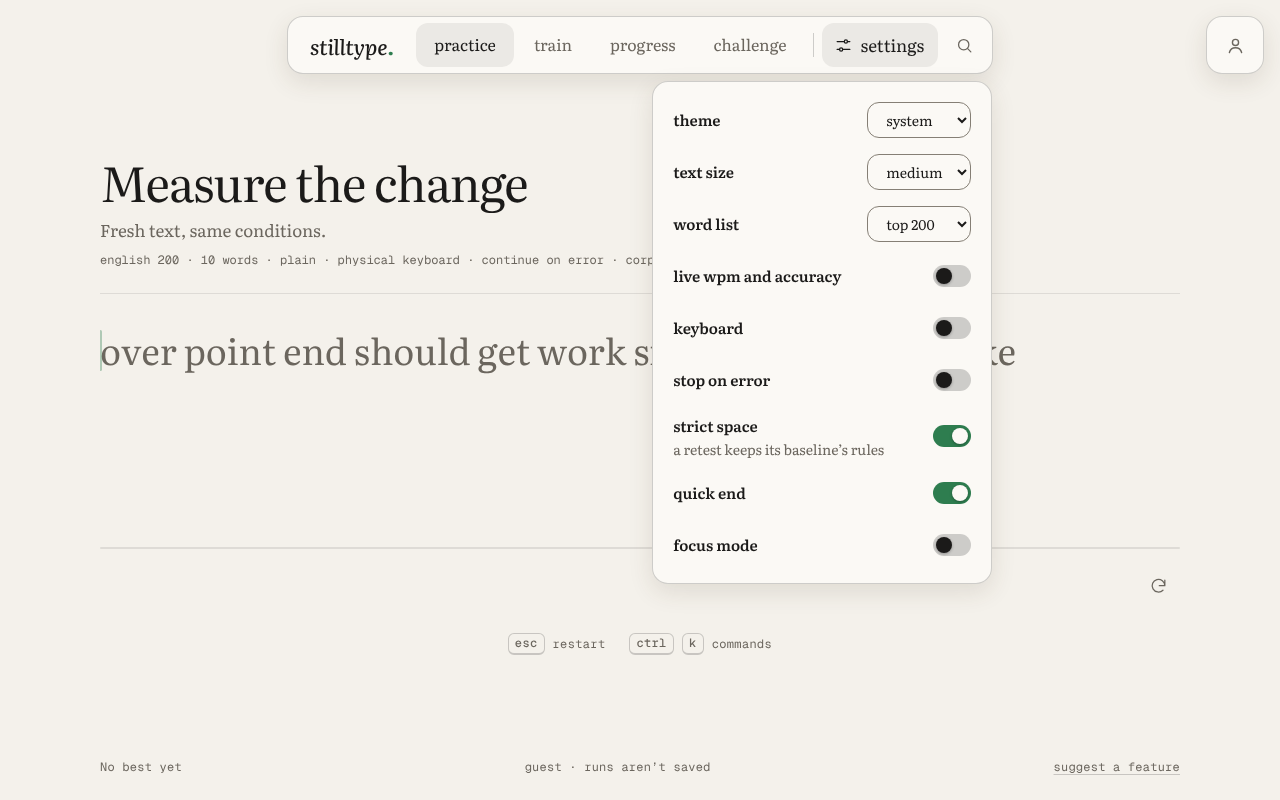
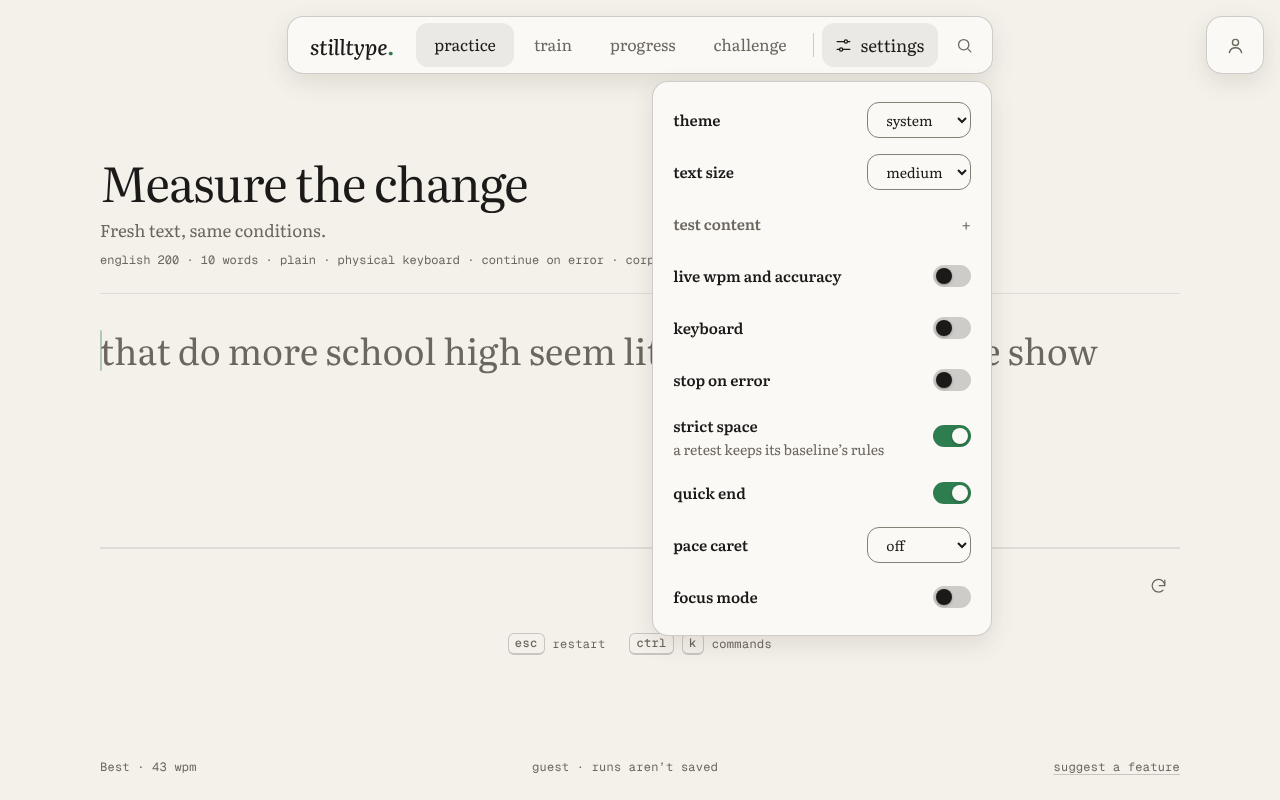
Keep rule choices through a retest and show its own best
Starting a retest or drill no longer copies the baseline's strict space and quick end into the
preferences; the retest takes them in sessionConditions. The footer best for the daily and a
retest now comes from that session's conditions rather than the switches.

Claude-Session: https://claude.ai/code/session_01SaBNo9RHRaTR8cCUjK1iLD

diff --git a/e2e/strict-space.spec.js b/e2e/strict-space.spec.js
@@ -376,13 +376,16 @@ test('a rule changed during a retest keeps the retest on its baseline’s rules'
   await page.emulateMedia({ colorScheme: 'light' });
   await openApp(page);
   await chooseWords(page, 10);
-  await completePassage(page);
+  // Typed at a person's pace, since the baseline's best stays in the footer for the screenshot.
+  await typeInto(page, await passageText(page), '#typing-input', PACE);
+  await expect(page.locator('body')).toHaveAttribute('data-view', 'results');
   await page.locator('#skip-to-retest').click();
   await expect(page.locator('#typing-screen')).toHaveAttribute('data-session', 'retest');
   await openSettings(page);
   await expect(page.locator('#rules-note')).toHaveText(RETEST_NOTE);
   await page.locator('#strict-space-toggle').check();
   await expect(page.locator('#strict-space-toggle')).toHaveAccessibleDescription(RETEST_NOTE);
+  await expect(page.locator('#best')).toHaveText(/^Best · \d+ wpm$/);
   await settle(page);
   await page.screenshot({ path: shot(testInfo, 'retest-note-light.png') });
   await page.locator('details.preferences > summary').click();
@@ -398,6 +401,48 @@ test('a rule changed during a retest keeps the retest on its baseline’s rules'
   // The preference waits for the next practice run.
   await page.locator('#run-again').click();
   await expect(page.locator('#condition-line')).toContainText('continue on error · strict space');
+});
+
+test('the footer best follows a waiting retest’s rules, not a rule changed under it', async ({ page }) => {
+  await openApp(page);
+  await chooseWords(page, 10);
+  await completePassage(page);
+  await page.locator('#skip-to-retest').click();
+  await expect(page.locator('#typing-screen')).toHaveAttribute('data-session', 'retest');
+  await expect(page.locator('#best')).toHaveText(/^Best · \d+ wpm$/);
+  const best = await page.locator('#best').textContent();
+  await setSwitch(page, 'strict-space-toggle', true);
+  await expect(page.locator('#condition-line')).not.toContainText('strict space');
+  await expect(page.locator('#best')).toHaveText(best);
+  // The next practice run takes strict space, which has no best yet.
+  await completePassage(page);
+  await page.locator('#run-again').click();
+  await expect(page.locator('#condition-line')).toContainText('continue on error · strict space');
+  await expect(page.locator('#best')).toHaveText('No best yet');
+});
+
+test('a rule changed on the results screen outlasts the retest and applies to the next practice run', async ({ page }) => {
+  await openApp(page);
+  await chooseWords(page, 10);
+  await setSwitch(page, 'quick-end-toggle', false);
+  await completePassage(page);
+  await setSwitch(page, 'quick-end-toggle', true);
+  await page.locator('#skip-to-retest').click();
+  await expect(page.locator('#typing-screen')).toHaveAttribute('data-session', 'retest');
+  // The retest runs on its baseline's rules; the switch keeps the choice and says why it waits.
+  await expect(page.locator('#condition-line')).toContainText('continue on error · quick end off');
+  await openSettings(page);
+  await expect(page.locator('#quick-end-toggle')).toBeChecked();
+  await expect(page.locator('#rules-note')).toHaveText(RETEST_NOTE);
+  await page.locator('details.preferences > summary').click();
+  await completePassage(page);
+  await expect(page.locator('#result-conditions')).toContainText('continue on error · quick end off');
+  await page.locator('#run-again').click();
+  await expect(page.locator('#typing-screen')).toHaveAttribute('data-session', 'practice');
+  await expect(page.locator('#condition-line')).toContainText('10 words');
+  await expect(page.locator('#condition-line')).not.toContainText('quick end');
+  await openSettings(page);
+  await expect(page.locator('#quick-end-toggle')).toBeChecked();
 });
 
 test('a rule changed on another screen rebuilds the waiting practice passage', async ({ page }) => {

diff --git a/src/app.js b/src/app.js
@@ -16,7 +16,6 @@ import {
   normalizeManualTarget,
   orderCustomText,
   passageComplete,
-  quickEndApplies,
   recommendTarget,
   refusesSpace,
   replayAttempt,
@@ -298,8 +297,11 @@ function showChrome(shown) {
 
 // The footer best belongs to the session on screen. A custom session (any non-comparable kind) has no best,
 // so it says it isn't counted rather than showing the best for the time or word settings underneath it.
+// A session that keeps its own conditions (the daily, a retest) shows the best for those, whatever the
+// switches say now; practice and drills follow the settings.
 function currentBestKey() {
-  return comparableKind(sessionKind) ? conditionKey(conditions()) : null;
+  if (!comparableKind(sessionKind)) return null;
+  return conditionKey(FIXED_RULE_KINDS.includes(sessionKind) ? sessionConditions(sessionKind) : conditions());
 }
 
 function showBest() {
@@ -565,9 +567,10 @@ function sessionDurationMs(kind = sessionKind) {
 // preferences: a drill started from a words baseline is still a timed minute. quickEnd names why
 // quick end does nothing there ('' when it applies); fixed names a session that keeps the rules it
 // started with (the daily's are set, a retest has to match its baseline, and custom text keeps the defaults).
+const FIXED_RULE_KINDS = ['daily', 'retest', 'custom'];
 function ruleLimits({ kind, run }) {
   return {
-    fixed: ['daily', 'retest', 'custom'].includes(kind) ? kind : '',
+    fixed: FIXED_RULE_KINDS.includes(kind) ? kind : '',
     quickEnd: sessionDurationMs(kind) !== null ? (kind === 'drill' ? 'drill' : 'timed')
       : run.correctionPolicy === 'relaxed' ? '' : 'stopOnError',
   };
@@ -1215,6 +1218,9 @@ function startRetest() {
   resetSession('retest', { focus: true });
 }
 
+// Restores the source's test shape. Strict space and quick end stay as the person set them: a retest
+// takes its baseline's rules in sessionConditions, and a drill follows the switches, so a choice made
+// on the results screen still reaches the next practice run.
 function restoreConditions(source) {
   prefs = {
     ...prefs,
@@ -1227,9 +1233,6 @@ function restoreConditions(source) {
     difficulty: source.difficulty || prefs.difficulty,
     wordList: source.wordList || prefs.wordList,
     stopOnError: source.correctionPolicy !== 'relaxed',
-    strictSpace: source.strictSpace === true,
-    // Only where quick end is part of the source's key; a timed or stop-on-error run keeps the preference.
-    quickEnd: quickEndApplies(source) ? source.quickEnd !== false : prefs.quickEnd,
   };
   profile.preferences = prefs;
   applyPreferences();

diff --git a/docs/ui-contract.md b/docs/ui-contract.md
@@ -23,7 +23,7 @@ The collapsed `#test-content-settings` category contains `#word-list` and `#numb
 
 Selection pills: a `.glide` container with `data-glide="current"` follows `aria-current`; `data-glide="pressed"` follows `aria-pressed`. Its `.glide-pill` is aria-hidden decoration; state always lives in the ARIA attributes and `.is-active`.
 
-Settings are `#theme-select` (`system`, `dark`, `light`), `#font-size` (`22`, `28`, `36`), `#live-toggle`, `#keyboard-toggle`, `#stop-on-error-toggle`, `#strict-space-toggle`, `#quick-end-toggle` and `#focus-toggle`; `#exit-focus` sits outside the dock. Apply theme as `html[data-theme]`; font size as `body[data-font-size]`; live metrics as `body[data-live-metrics]`; keyboard as `body[data-keyboard]`; focus mode as `body[data-focus-mode]`. Stop on error defaults on; turning it off permits advancement after mistakes. Changing the correction policy starts a new practice run. The policy is stored in run conditions, keeping bests and comparisons separate. Strict space (off by default) refuses a space where the passage has a letter, scoring it as a wrong key without moving the caret and tinting the skipped letter until the next key. Quick end (on by default) ends a continue-on-error word or quote run on its last letter; off, a mistake in the last word waits for a fix or a space. What a session can take comes from that session (its kind, timing and run conditions), not the test-shape preferences: `#quick-end-toggle` is disabled, keeping its value, wherever quick end can't change the run (timed runs, including every drill, and stop on error), and `#quick-end-note` says why. A change on the practice screen restarts the session as the same kind; the daily and a retest keep the rules they started with, carry on, and `#rules-note` (read by both switches) says so. Other screens stay put, and a practice passage left waiting there is rebuilt when practice is shown again. Both enter run conditions only when they differ from the defaults and apply to the run. The generated keyboard belongs in `#keyboard`. Escape or `#exit-focus` exits focus mode before applying the ordinary Escape restart behavior.
+Settings are `#theme-select` (`system`, `dark`, `light`), `#font-size` (`22`, `28`, `36`), `#live-toggle`, `#keyboard-toggle`, `#stop-on-error-toggle`, `#strict-space-toggle`, `#quick-end-toggle` and `#focus-toggle`; `#exit-focus` sits outside the dock. Apply theme as `html[data-theme]`; font size as `body[data-font-size]`; live metrics as `body[data-live-metrics]`; keyboard as `body[data-keyboard]`; focus mode as `body[data-focus-mode]`. Stop on error defaults on; turning it off permits advancement after mistakes. Changing the correction policy starts a new practice run. The policy is stored in run conditions, keeping bests and comparisons separate. Strict space (off by default) refuses a space where the passage has a letter, scoring it as a wrong key without moving the caret and tinting the skipped letter until the next key. Quick end (on by default) ends a continue-on-error word or quote run on its last letter; off, a mistake in the last word waits for a fix or a space. What a session can take comes from that session (its kind, timing and run conditions), not the test-shape preferences: `#quick-end-toggle` is disabled, keeping its value, wherever quick end can't change the run (timed runs, including every drill, and stop on error), and `#quick-end-note` says why. A change on the practice screen restarts the session as the same kind; the daily and a retest keep the rules they started with, carry on, and `#rules-note` (read by both switches) says so. Starting a retest or drill restores its baseline's test shape but never writes its rules into these switches: a retest takes them for its own conditions, and the person's choice waits for the next run it applies to. Other screens stay put, and a practice passage left waiting there is rebuilt when practice is shown again. Both enter run conditions only when they differ from the defaults and apply to the run. The generated keyboard belongs in `#keyboard`. Escape or `#exit-focus` exits focus mode before applying the ordinary Escape restart behavior.
 
 The command palette is `dialog#palette`. `#palette-input` is a combobox controlling `#palette-list` (a listbox rebuilt from the app's commands on every keystroke, so hints show current state); `#palette-empty` shows when nothing matches; `.palette-highlight` is aria-hidden. Ctrl-K / ⌘K and `#palette-trigger` open it; Escape closes it and returns focus. Opening it closes settings, and opening it during a run marks that run interrupted.
 
@@ -39,7 +39,7 @@ Required IDs: `typing-screen`, `typing-form`, `typing-input`, `typing-wrap`, `te
 
 Practice mode controls are `#mode-time`, `#mode-words`, `#mode-quote`, `#duration-options`, `#punctuation-toggle`, `#quote-options`, `#quote-length`, and `#quote-difficulty`. Generated length buttons belong in `#duration-options` and use `aria-pressed`.
 
-`#best` in the footer shows the personal best for the current conditions, or states that there is none. `#suggest-trigger` beside it (and the palette command "suggest a feature…") opens `dialog#suggest-dialog`: `#suggest-text` (max 1000 characters, counted in `#suggest-count`), errors in `#suggest-error`, a hidden honeypot `#suggest-website`, and `#send-suggest`, which inserts `{ body, view }` into the Supabase `feature_suggestions` table through `sendSuggestion` in `src/account.js`, always as the anonymous role (a filled honeypot sends nothing). Success closes the dialog and shows `#suggest-toast`; failure keeps the text. Opening it mid-run marks the run interrupted, like the palette.
+`#best` in the footer shows the personal best for the conditions of the session on screen, or states that there is none: the daily's and a retest's own conditions (a retest's rules are its baseline's, whatever the switches say now), otherwise the current settings; custom text says it isn't counted. `#suggest-trigger` beside it (and the palette command "suggest a feature…") opens `dialog#suggest-dialog`: `#suggest-text` (max 1000 characters, counted in `#suggest-count`), errors in `#suggest-error`, a hidden honeypot `#suggest-website`, and `#send-suggest`, which inserts `{ body, view }` into the Supabase `feature_suggestions` table through `sendSuggestion` in `src/account.js`, always as the anonymous role (a filled honeypot sends nothing). Success closes the dialog and shows `#suggest-toast`; failure keeps the text. Opening it mid-run marks the run interrupted, like the palette.
 
 ## Completed run and recommendation
 

diff --git a/HANDOFF.md b/HANDOFF.md
@@ -18,7 +18,7 @@ Product behaviour:
 - Spacious, borderless typing with centered mode/length controls, a stable three-line passage, a solid caret and tinted errors.
 - Time and word-count tests draw from a chosen common-word list — top 200 (default, Monkeytype's default "english" list), 1k, 5k or 10k — set in settings or the palette (`src/words.js`; current corpus version v5). The word list is part of the test conditions, so bests and retests never mix lists. Original quote tests; quote length and descriptive difficulty filters; explicit empty-filter recovery.
 - Saved theme, text size, word list, keyboard, live metrics, stop-on-error and focus preferences. Focus mode has an exit and Escape support.
-- Strict space and quick end (settings and palette). Strict space, off by default, refuses a space typed where the passage has a letter: it counts as a wrong key at that position (an `accepted: false` insert, which replay v1 already scored), the caret stays and the skipped letter is tinted until the next key. Quick end, on by default, is master's rule for continue on error: a word or quote run ends on its last letter, right or wrong. Off, a mistake in the last word holds the run until it is fixed or space submits it (a `submit` event replay ignores). Stop on error keeps master's rule too, waiting for every letter: quick end doesn't apply there, because on by default it would change existing stop-on-error runs and their bests. Which rules a session can take is read from that session (its kind, timing and run conditions; `ruleLimits` in `src/app.js`), never from the test-shape preferences: wherever quick end can't change the run (timed runs, every drill whatever its baseline, stop on error) its switch is disabled, keeps its value and says why, and the run records it at the default. A rule change restarts the session as the same kind (a drill stays a drill); the daily and a retest keep the rules they started with (a retest takes its baseline's, so it stays comparable) and say so, and the preference waits for the next run. Other screens stay put; a practice passage left waiting there is rebuilt when practice is shown. Each rule is in `conditionKey` only when it differs from the default and applies, so existing bests keep their keys.
+- Strict space and quick end (settings and palette). Strict space, off by default, refuses a space typed where the passage has a letter: it counts as a wrong key at that position (an `accepted: false` insert, which replay v1 already scored), the caret stays and the skipped letter is tinted until the next key. Quick end, on by default, is master's rule for continue on error: a word or quote run ends on its last letter, right or wrong. Off, a mistake in the last word holds the run until it is fixed or space submits it (a `submit` event replay ignores). Stop on error keeps master's rule too, waiting for every letter: quick end doesn't apply there, because on by default it would change existing stop-on-error runs and their bests. Which rules a session can take is read from that session (its kind, timing and run conditions; `ruleLimits` in `src/app.js`), never from the test-shape preferences: wherever quick end can't change the run (timed runs, every drill whatever its baseline, stop on error) its switch is disabled, keeps its value and says why, and the run records it at the default. A rule change restarts the session as the same kind (a drill stays a drill); the daily and a retest keep the rules they started with (a retest takes its baseline's, so it stays comparable) and say so, and the preference waits for the next run: starting a retest or drill never copies the baseline's rules into the preferences, and the footer best follows the retest's own conditions. Other screens stay put; a practice passage left waiting there is rebuilt when practice is shown. Each rule is in `conditionKey` only when it differs from the default and applies, so existing bests keep their keys.
 - Per-user sessions. Everyone starts in guest mode: default settings, and nothing is written to storage. The person button (top right; `#account`) offers Create account, Sign in with Google and Sign in with email. Signed-in profiles are cached per user on the device (`stilltype-profile-v2:<user id>`) and synced to Supabase; the newer copy wins on load. Saves only stamp the profile once that first comparison has succeeded (retried when the browser comes back online), so a stale cache can never look newer than the account. Signing out clears that user's device cache unless edits failed to sync. The pre-accounts `stilltype-profile-v2` history is merged into the first account confirmed to have no saved profile; it stays in place if that check fails.
 - Versioned deterministic replay, retained first-attempt mistakes, condition-filtered recommendations, sample thresholds and clean pair timing.
 - A real one-minute drill stage, automatic or manually selected. Manual drills work without a baseline; a baseline enables the fresh comparable retest.
